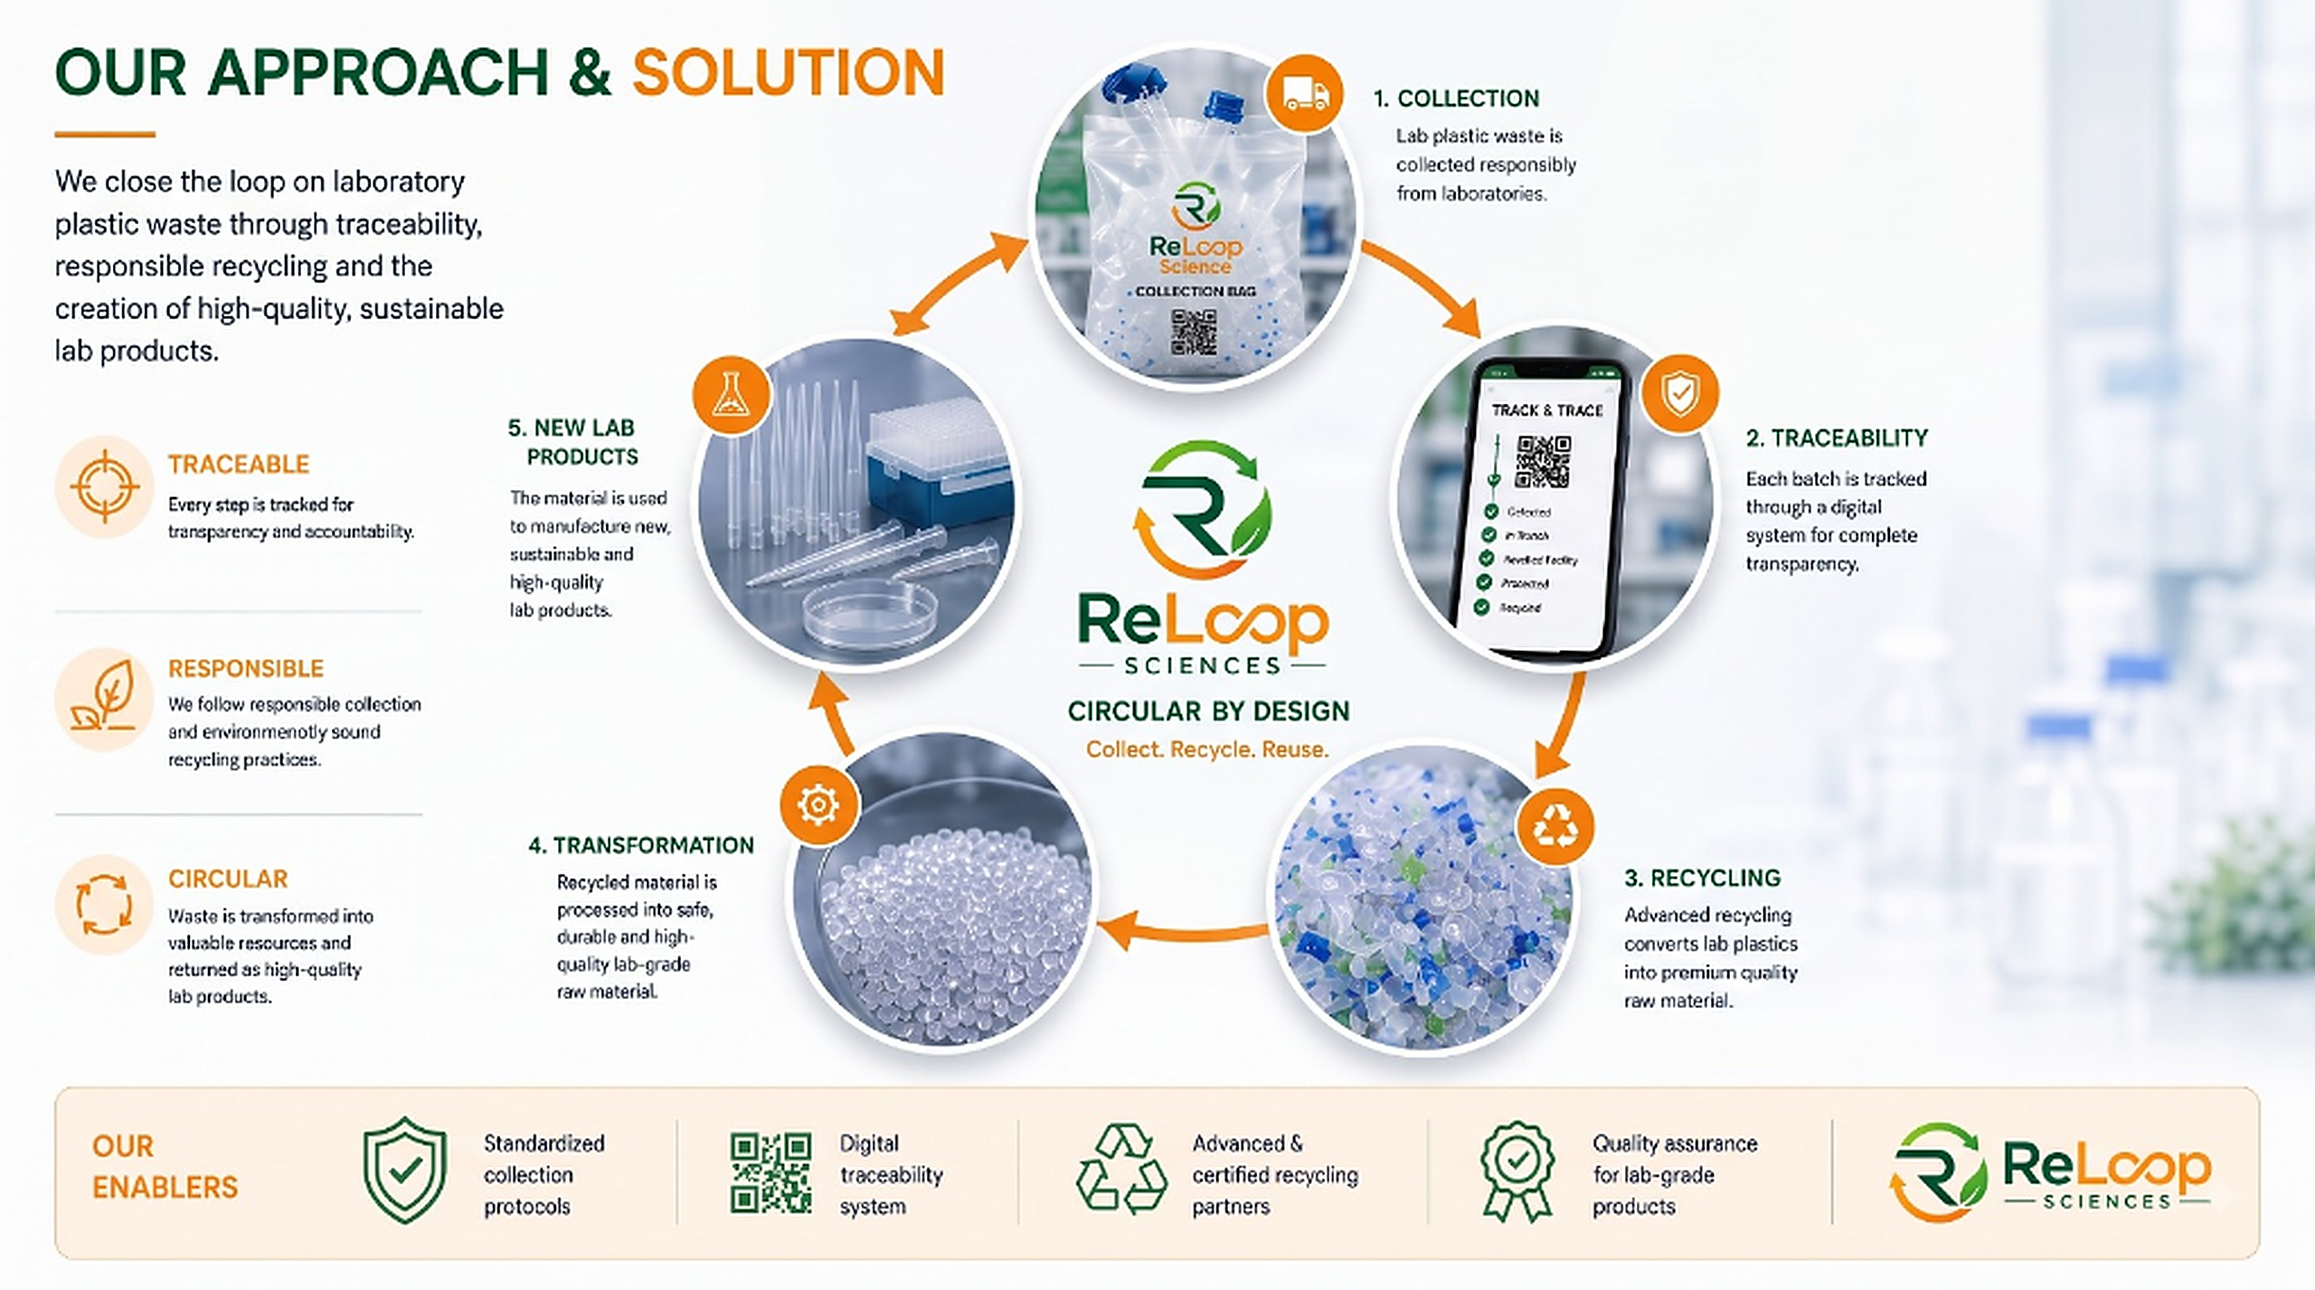
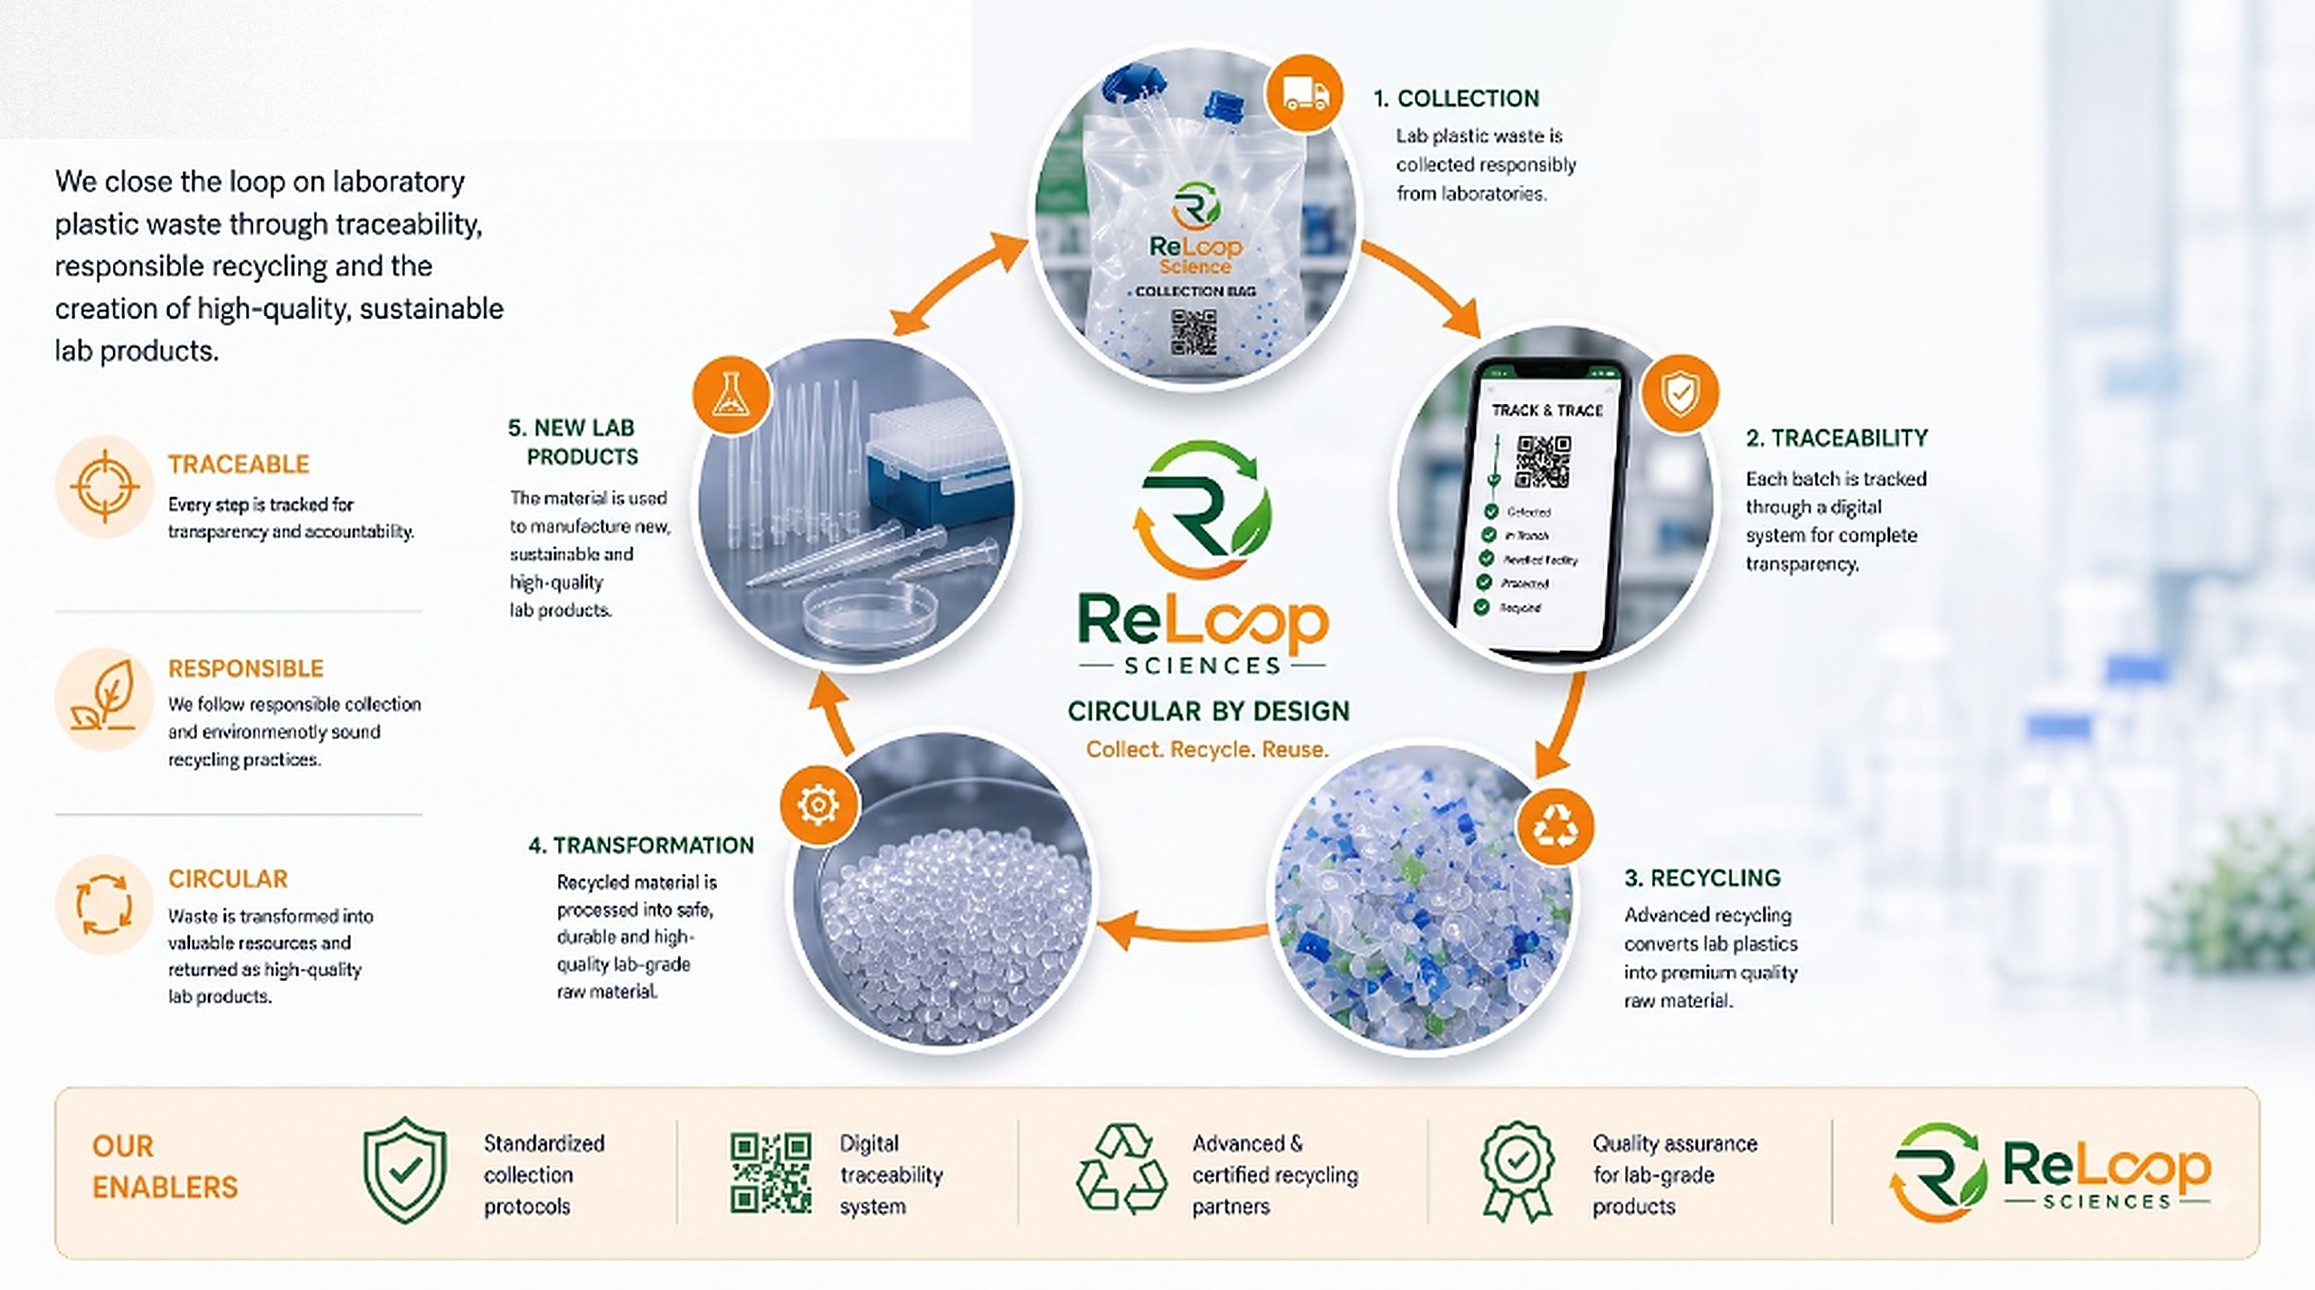
Update solutions layout: reposition infographic below feature pills and shrink intro mission copy

Changed region(s): [[0.0, 0.0308, 0.4062, 0.1233]]

diff --git a/src/components/hero/Hero.tsx b/src/components/hero/Hero.tsx
@@ -20,105 +20,98 @@ const fadeUp = {
 export function Hero() {
   return (
     <section
-      className="relative min-h-[85vh] flex flex-col items-center pt-32 pb-24 overflow-hidden bg-gradient-to-b from-offwhite via-white to-offwhite"
+      className="relative min-h-[85vh] flex items-center pt-28 pb-20 md:pt-36 md:pb-24 overflow-hidden bg-gradient-to-b from-offwhite via-white to-offwhite"
       id="hero"
     >
       {/* Background ambient lighting */}
       <div className="absolute top-1/3 left-1/2 -translate-x-1/2 -translate-y-1/2 w-[700px] h-[350px] bg-[#2da021]/5 blur-[140px] rounded-full pointer-events-none" />
 
-      <div className="mx-auto max-w-5xl px-6 lg:px-8 w-full relative z-10 text-center">
-        <motion.div
-          className="inline-flex items-center gap-2 px-4 py-1.5 rounded-full bg-emerald-900/5 border border-[#2da021]/20 text-[#2da021] text-xs font-semibold uppercase tracking-widest mb-6"
-          variants={fadeUp}
-          initial="hidden"
-          animate="visible"
-          custom={0}
-        >
-          <Sparkles size={14} className="text-[#f88a0d]" />
-          India&apos;s Lab Plastic Ecosystem
-        </motion.div>
+      <div className="mx-auto max-w-7xl px-6 lg:px-8 w-full relative z-10">
+        <div className="grid grid-cols-1 lg:grid-cols-12 gap-10 lg:gap-12 items-center">
+          {/* Left Column: Hero Content */}
+          <div className="lg:col-span-6 text-left">
+            <motion.h1
+              className="text-3xl sm:text-4xl md:text-5xl xl:text-[3.25rem] font-bold text-[#134c2c] tracking-tight leading-[1.14] mb-6"
+              variants={fadeUp}
+              initial="hidden"
+              animate="visible"
+              custom={0}
+            >
+              India’s Labs Hold an Untapped Resource.
+              <span className="block text-[#2da021] mt-2 sm:mt-3">
+                We’re Unlocking It for a Circular Economy.
+              </span>
+            </motion.h1>
 
-        <motion.h1
-          className="text-4xl sm:text-5xl lg:text-6xl font-bold text-[#134c2c] tracking-tight leading-[1.15] mb-6 max-w-4xl mx-auto"
-          variants={fadeUp}
-          initial="hidden"
-          animate="visible"
-          custom={1}
-        >
-          India’s Labs Hold an Untapped Resource.
-          <span className="block text-[#2da021] mt-3">
-            We’re Unlocking It for a Circular Economy.
-          </span>
-        </motion.h1>
+            <motion.p
+              className="text-base sm:text-lg lg:text-xl text-[#134c2c]/85 font-normal leading-relaxed mb-8 max-w-xl"
+              variants={fadeUp}
+              initial="hidden"
+              animate="visible"
+              custom={1}
+            >
+              A traceable, closed‑loop system that transforms clean lab plastics into new lab products across India.
+            </motion.p>
 
-        <motion.p
-          className="text-lg md:text-xl text-[#134c2c]/80 font-medium leading-relaxed mb-10 max-w-2xl mx-auto"
-          variants={fadeUp}
-          initial="hidden"
-          animate="visible"
-          custom={2}
-        >
-          A traceable, closed‑loop system that transforms clean lab plastics into new lab products across India.
-        </motion.p>
+            <motion.div
+              className="flex flex-col sm:flex-row items-stretch sm:items-center gap-4"
+              variants={fadeUp}
+              initial="hidden"
+              animate="visible"
+              custom={2}
+            >
+              {/* Primary CTA */}
+              <Link
+                href="/contact"
+                className="inline-flex items-center justify-center gap-2 px-8 py-3.5 bg-[#f88a0d] hover:bg-[#d87609] text-white text-base font-semibold tracking-wide rounded-full transition-all duration-300 shadow-xl shadow-orange-950/20 hover:-translate-y-0.5 group"
+              >
+                Partner With Us
+                <ArrowRight size={18} className="transition-transform duration-300 group-hover:translate-x-1" />
+              </Link>
 
-        <motion.div
-          className="flex flex-col sm:flex-row items-center justify-center gap-4 mb-14"
-          variants={fadeUp}
-          initial="hidden"
-          animate="visible"
-          custom={3}
-        >
-          {/* Primary CTA */}
-          <Link
-            href="/contact"
-            className="w-full sm:w-auto inline-flex items-center justify-center gap-2 px-8 py-4 bg-[#f88a0d] hover:bg-[#d87609] text-white text-base font-semibold tracking-wide rounded-full transition-all duration-300 shadow-xl shadow-orange-950/20 hover:-translate-y-0.5 group"
-          >
-            Partner With Us
-            <ArrowRight size={18} className="transition-transform duration-300 group-hover:translate-x-1" />
-          </Link>
-
-          {/* Secondary CTA */}
-          <Link
-            href="#circular-model"
-            className="w-full sm:w-auto inline-flex items-center justify-center px-8 py-4 text-[#134c2c] font-semibold text-base rounded-full bg-white border border-gray-200 hover:border-[#2da021] hover:text-[#2da021] transition-all duration-300 shadow-sm"
-          >
-            Learn How It Works
-          </Link>
-        </motion.div>
-
-        {/* Featured Circular Model Infographic Showcase */}
-        <motion.div
-          variants={fadeUp}
-          initial="hidden"
-          whileInView="visible"
-          viewport={{ once: true }}
-          custom={4}
-          className="max-w-5xl mx-auto rounded-3xl overflow-hidden border border-emerald-950/15 shadow-2xl bg-white text-left"
-        >
-          <div className="relative aspect-[16/9] w-full">
-            <Image
-              src="/images/circular-model-infographic.jpg"
-              alt="Closing the Loop - Reloop Sciences Circular Model"
-              fill
-              priority
-              unoptimized
-              style={{ imageRendering: "-webkit-optimize-contrast" }}
-              className="object-contain bg-[#f8f7f4]"
-              sizes="(max-width: 1024px) 100vw, 1200px"
-            />
+              {/* Secondary CTA */}
+              <Link
+                href="#circular-model"
+                className="inline-flex items-center justify-center px-7 py-3.5 text-[#134c2c] font-semibold text-base rounded-full bg-white border border-gray-200 hover:border-[#2da021] hover:text-[#2da021] transition-all duration-300 shadow-sm"
+              >
+                Learn How It Works
+              </Link>
+            </motion.div>
           </div>
-          <div className="p-4 sm:p-5 bg-gradient-to-r from-[#0c2a19] via-[#134c2c] to-[#0c2a19] text-white flex flex-col sm:flex-row items-center justify-between gap-3">
-            <div className="flex items-center gap-2">
-              <Sparkles size={16} className="text-[#f88a0d]" />
-              <span className="text-xs sm:text-sm font-bold tracking-wide">
-                Reloop Closed-Loop Recovery Architecture
+
+          {/* Right Column: Featured Circular Model Infographic */}
+          <motion.div
+            variants={fadeUp}
+            initial="hidden"
+            animate="visible"
+            custom={2}
+            className="lg:col-span-6 w-full rounded-3xl overflow-hidden border border-emerald-950/15 shadow-2xl bg-white text-left group"
+          >
+            <div className="relative aspect-[16/10] sm:aspect-[16/9.8] w-full">
+              <Image
+                src="/images/circular-model-infographic.jpg"
+                alt="Closing the Loop - Reloop Sciences Circular Model"
+                fill
+                priority
+                unoptimized
+                style={{ imageRendering: "-webkit-optimize-contrast" }}
+                className="object-contain bg-[#f8f7f4]"
+                sizes="(max-width: 1024px) 100vw, 650px"
+              />
+            </div>
+            <div className="p-3.5 sm:p-4 bg-gradient-to-r from-[#0c2a19] via-[#134c2c] to-[#0c2a19] text-white flex items-center justify-between gap-2">
+              <div className="flex items-center gap-2">
+                <Sparkles size={15} className="text-[#f88a0d] shrink-0" />
+                <span className="text-xs sm:text-sm font-bold tracking-wide">
+                  Reloop Closed-Loop Recovery Architecture
+                </span>
+              </div>
+              <span className="text-[10px] sm:text-[11px] font-semibold uppercase tracking-wider text-[#2da021] bg-white/10 px-2.5 py-0.5 rounded-full shrink-0">
+                Transparent • Traceable • Circular
               </span>
             </div>
-            <span className="text-[11px] font-semibold uppercase tracking-widest text-[#2da021] bg-white/10 px-3 py-1 rounded-full">
-              Transparent • Traceable • Circular
-            </span>
-          </div>
-        </motion.div>
+          </motion.div>
+        </div>
       </div>
     </section>
   );

diff --git a/src/components/solutions/SolutionsContent.tsx b/src/components/solutions/SolutionsContent.tsx
@@ -254,7 +254,7 @@ export function SolutionsContent() {
         {/* Ambient Gradient Background Orbs */}
         <div className="absolute top-20 left-1/2 -translate-x-1/2 w-[600px] h-[350px] bg-gradient-to-tr from-[#2da021]/15 via-[#f88a0d]/10 to-transparent blur-3xl rounded-full pointer-events-none -z-10" />
 
-        <div className="max-w-4xl mx-auto text-center">
+        <div className="max-w-5xl mx-auto text-center">
           {/* Main Title */}
           <motion.h1
             initial={{ opacity: 0, y: 20 }}
@@ -268,21 +268,15 @@ export function SolutionsContent() {
             </span>
           </motion.h1>
 
-          {/* Paragraphs */}
+          {/* Intro Paragraph */}
           <motion.div
             initial={{ opacity: 0, y: 20 }}
             animate={{ opacity: 1, y: 0 }}
-            transition={{ duration: 0.6, delay: 0.2 }}
-            className="space-y-6 text-stone-600 text-base sm:text-lg md:text-xl leading-relaxed max-w-3xl mx-auto font-normal"
+            transition={{ duration: 0.6, delay: 0.15 }}
+            className="text-stone-600 text-base sm:text-lg md:text-xl leading-relaxed max-w-3xl mx-auto font-normal"
           >
             <p>
-              Laboratories rely on plastic consumables every day to support scientific research, innovation, and discovery. While these materials are essential for maintaining safety, quality, and reproducibility, many eventually enter disposal pathways with limited opportunities for recovery.
-            </p>
-            <div className="p-6 rounded-2xl bg-white/80 border border-stone-200/80 shadow-sm backdrop-blur-xs text-stone-800 font-medium">
-              At <strong className="text-[#134c2c]">Reloop Sciences</strong>, we believe suitable non-hazardous laboratory plastics should be viewed as <span className="text-[#2da021] font-bold">valuable resources</span> rather than waste.
-            </div>
-            <p className="text-stone-700 font-medium">
-              Our mission is to build a <strong className="text-[#134c2c]">traceable circular economy ecosystem</strong> that connects laboratories, recyclers, and manufacturers through transparent material recovery pathways.
+              While single-use plastics are essential for scientific research, most enter disposal pathways without recovery. At <strong className="text-[#134c2c]">Reloop Sciences</strong>, we transform suitable non-hazardous laboratory plastics into <span className="text-[#2da021] font-bold">valuable resources</span> by building a traceable circular economy ecosystem connecting laboratories, recyclers, and manufacturers.
             </p>
           </motion.div>
 
@@ -290,7 +284,7 @@ export function SolutionsContent() {
           <motion.div
             initial={{ opacity: 0, y: 20 }}
             animate={{ opacity: 1, y: 0 }}
-            transition={{ duration: 0.6, delay: 0.3 }}
+            transition={{ duration: 0.6, delay: 0.25 }}
             className="mt-10 flex flex-wrap items-center justify-center gap-3"
           >
             {[
@@ -308,13 +302,13 @@ export function SolutionsContent() {
             ))}
           </motion.div>
 
-          {/* Featured Approach & Solutions Infographic Showcase (Normal Image) */}
+          {/* Featured Approach & Solutions Infographic Showcase (Positioned below feature pills) */}
           <motion.div
-            initial={{ opacity: 0, y: 24 }}
+            initial={{ opacity: 0, y: 20 }}
             whileInView={{ opacity: 1, y: 0 }}
             viewport={{ once: true }}
-            transition={{ duration: 0.6, delay: 0.35 }}
-            className="mt-14 max-w-5xl mx-auto rounded-3xl overflow-hidden border border-emerald-950/15 shadow-2xl bg-white"
+            transition={{ duration: 0.6, delay: 0.3 }}
+            className="mt-14 max-w-5xl mx-auto rounded-3xl overflow-hidden border border-emerald-950/15 shadow-2xl bg-white text-left"
           >
             <div className="relative aspect-[16/9] w-full">
               <Image

diff --git a/src/components/about/AboutHero.tsx b/src/components/about/AboutHero.tsx
@@ -21,36 +21,13 @@ export function AboutHero() {
   return (
     <section className="relative pt-24 pb-16 md:pt-32 md:pb-24 overflow-hidden bg-gradient-to-b from-offwhite via-white to-offwhite">
       <div className="mx-auto max-w-6xl px-6 lg:px-10 relative z-10">
-        <div className="text-center max-w-4xl mx-auto space-y-6">
-          <motion.h1
-            variants={fadeUp}
-            initial="hidden"
-            animate="visible"
-            custom={0}
-            className="text-3xl sm:text-4xl lg:text-[2.75rem] font-bold text-[#134c2c] tracking-tight leading-[1.2]"
-          >
-            Building a Circular Future for Laboratory Materials
-          </motion.h1>
-
-          <motion.p
-            variants={fadeUp}
-            initial="hidden"
-            animate="visible"
-            custom={1}
-            className="text-lg md:text-xl text-[#134c2c]/80 font-medium leading-relaxed max-w-3xl mx-auto"
-          >
-            Reloop Sciences is a sustainability-focused company exploring innovative solutions for laboratory plastic recovery and circular economy practices within the life sciences sector.
-          </motion.p>
-        </div>
-
-        {/* Featured About Us Infographic Showcase (Normal Image) */}
+        {/* Featured About Us Infographic Showcase (Normal Image on Top) */}
         <motion.div
           variants={fadeUp}
           initial="hidden"
-          whileInView="visible"
-          viewport={{ once: true }}
-          custom={3}
-          className="mt-12 max-w-5xl mx-auto rounded-3xl overflow-hidden border border-emerald-950/15 shadow-2xl bg-white"
+          animate="visible"
+          custom={0}
+          className="max-w-5xl mx-auto rounded-3xl overflow-hidden border border-emerald-950/15 shadow-2xl bg-white mb-12"
         >
           <div className="relative aspect-[16/9] w-full">
             <Image
@@ -76,6 +53,30 @@ export function AboutHero() {
             </span>
           </div>
         </motion.div>
+
+        <div className="text-center max-w-4xl mx-auto space-y-6">
+          <motion.h1
+            variants={fadeUp}
+            initial="hidden"
+            whileInView="visible"
+            viewport={{ once: true }}
+            custom={1}
+            className="text-3xl sm:text-4xl lg:text-[2.75rem] font-bold text-[#134c2c] tracking-tight leading-[1.2]"
+          >
+            Building a Circular Future for Laboratory Materials
+          </motion.h1>
+
+          <motion.p
+            variants={fadeUp}
+            initial="hidden"
+            whileInView="visible"
+            viewport={{ once: true }}
+            custom={2}
+            className="text-lg md:text-xl text-[#134c2c]/80 font-medium leading-relaxed max-w-3xl mx-auto"
+          >
+            Reloop Sciences is a sustainability-focused company exploring innovative solutions for laboratory plastic recovery and circular economy practices within the life sciences sector.
+          </motion.p>
+        </div>
 
         {/* Content Callout Grid */}
         <div className="mt-12 grid grid-cols-1 md:grid-cols-2 gap-8 items-stretch">
